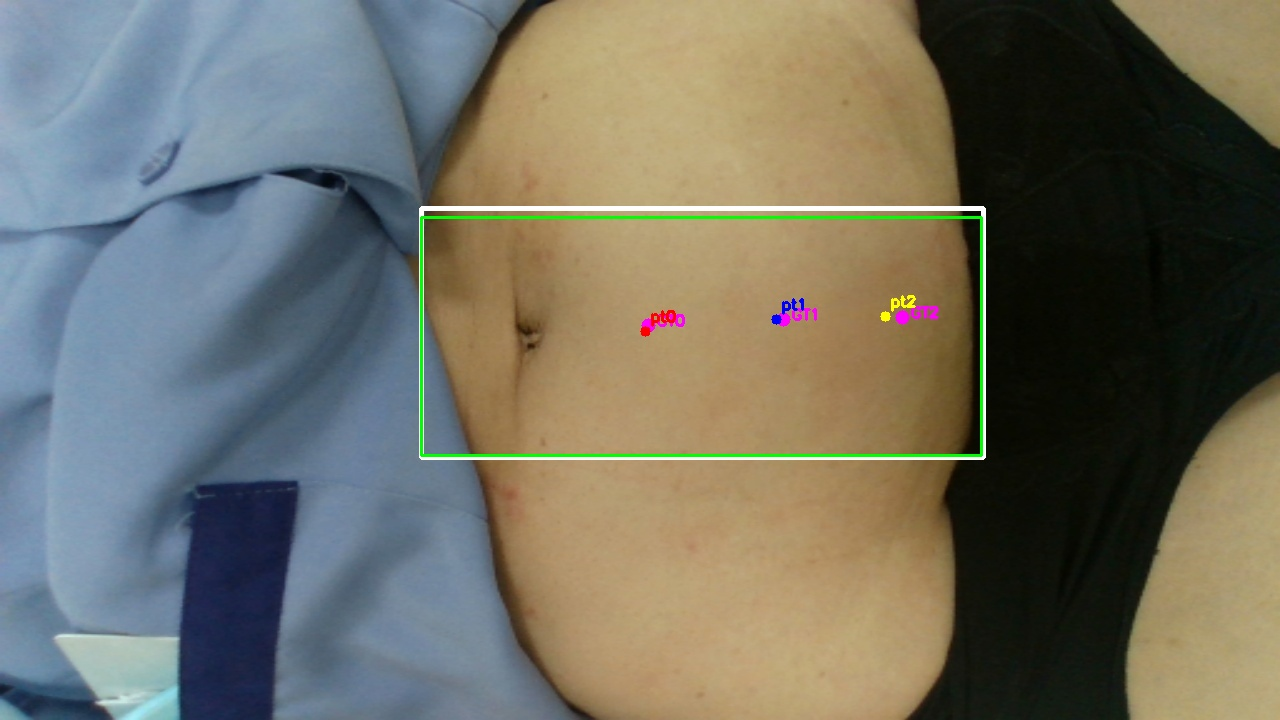
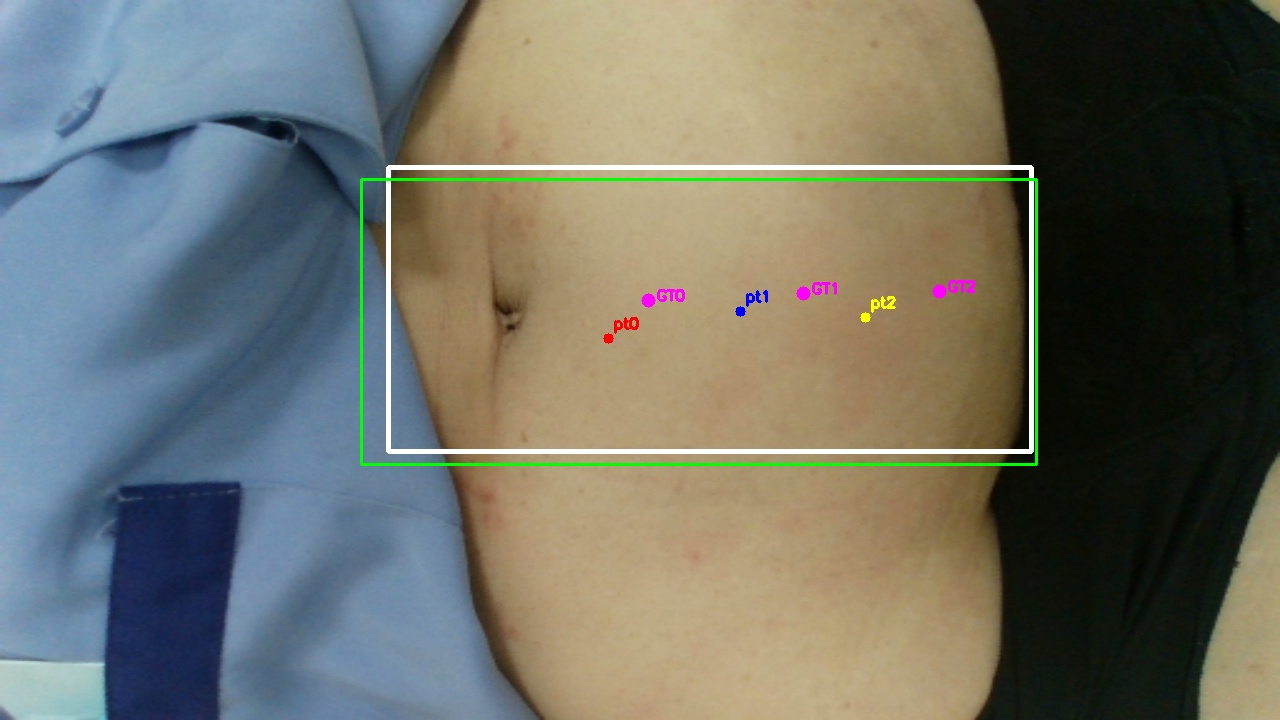
feat: 新增 RGBD/RGB Pose 训练脚本及 4 通道权重转换脚本
- train_pose_rgbd.py: 调整 epochs=120，patience=20，开启数据增强
- train_pose_rgb.py: 新增 RGB 3 通道训练脚本，基于 train_pose_rgbd.py 改造
- make_perfect_4ch_pose.py: 支持加载已训练的 RGB 权重作为 4 通道初始化
- detect_post_export_lables.py: 优化推理与标注对比逻辑

diff --git a/YJJ-Pose-Scripts/train_pose_rgb.py b/YJJ-Pose-Scripts/train_pose_rgb.py
@@ -9,13 +9,13 @@ def main():
 
     # 1. 加载模型
     print("\n1. 加载模型...")
-    model = YOLO('yolov8n-pose_4ch_perfect.pt', task='pose')
+    model = YOLO('yolov8n-pose.pt', task='pose')
 
-    # 验证模型是 4 通道
+    # 验证模型是 3 通道
     first_layer = model.model.model[0].conv
     print(f"第一层卷积输入通道: {first_layer.weight.shape[1]}")
-    assert first_layer.weight.shape[1] == 4, "❌ 模型不是4通道！"
-    print("✓ 模型确认为 4 通道")
+    assert first_layer.weight.shape[1] == 3, "❌ 模型不是3通道！"
+    print("✓ 模型确认为 3 通道")
 
     # 2. 开始试训 (先跑10轮确认没问题)
     print("\n2. 开始试训...")
@@ -23,7 +23,7 @@ def main():
     try:
         results = model.train(
             task='pose',
-            data='datasets/acupoint.yaml',
+            data='datasets/acupoint_rgb.yaml',
 
             # 【关键】先试训10轮！没问题再改成300
             epochs=120,
@@ -31,7 +31,7 @@ def main():
             imgsz=640,
             batch=4,
             device='cuda:0' if torch.cuda.is_available() else 'cpu',
-            name='train_pose_rgbd_4ch',
+            name='train_pose_rgb_3ch',
             project='runs/pose',
 
             patience=20,

diff --git a/YJJ-Pose-Scripts/detect_post_export_lables.py b/YJJ-Pose-Scripts/detect_post_export_lables.py
@@ -154,9 +154,9 @@ def predict_with_exact_training_match(
 
 if __name__ == '__main__':
     compare_result = predict_with_exact_training_match(
-        model_path='runs/pose/train_pose_rgbd_10ep_test2/weights/best.pt',
-        img_path="H:/YJJ/Yolo_RGBD/yolov8-rgbd-detection/datasets/acupoint/images/train/20250915_103_0_0043.png",
-        gt_label_path="H:/YJJ/Yolo_RGBD/yolov8-rgbd-detection/datasets/acupoint/labels/train/20250915_103_0_0043.txt",
+        model_path="runs/pose/train_pose_rgbd_10ep_test3/weights/best.pt",
+        img_path="H:/YJJ/Yolo_RGBD/yolov8-rgbd-detection/datasets/acupoint/images/test/20250915_103_0_0061.png",
+        gt_label_path="H:/YJJ/Yolo_RGBD/yolov8-rgbd-detection/datasets/acupoint/labels/test/20250915_103_0_0061.txt",
         conf_threshold=0.5,
         save_path="pose_final_match.jpg"
     )

diff --git a/YJJ-Pose-Scripts/make_perfect_4ch_pose.py b/YJJ-Pose-Scripts/make_perfect_4ch_pose.py
@@ -7,7 +7,8 @@ print("🚀 终极外科手术 3.0：最稳的 4通道 Pose 模型")
 print("============================================================")
 
 print("\n1. 加载 yolov8n-pose.pt...")
-old_model = YOLO('yolov8n-pose.pt')
+#old_model = YOLO('yolov8n-pose.pt')
+old_model = YOLO('runs/pose/train_pose_rgb_3ch/weights/best.pt', task='pose')
 old_state_dict = old_model.model.state_dict()
 
 print("2. 正在修改网络图纸...")
